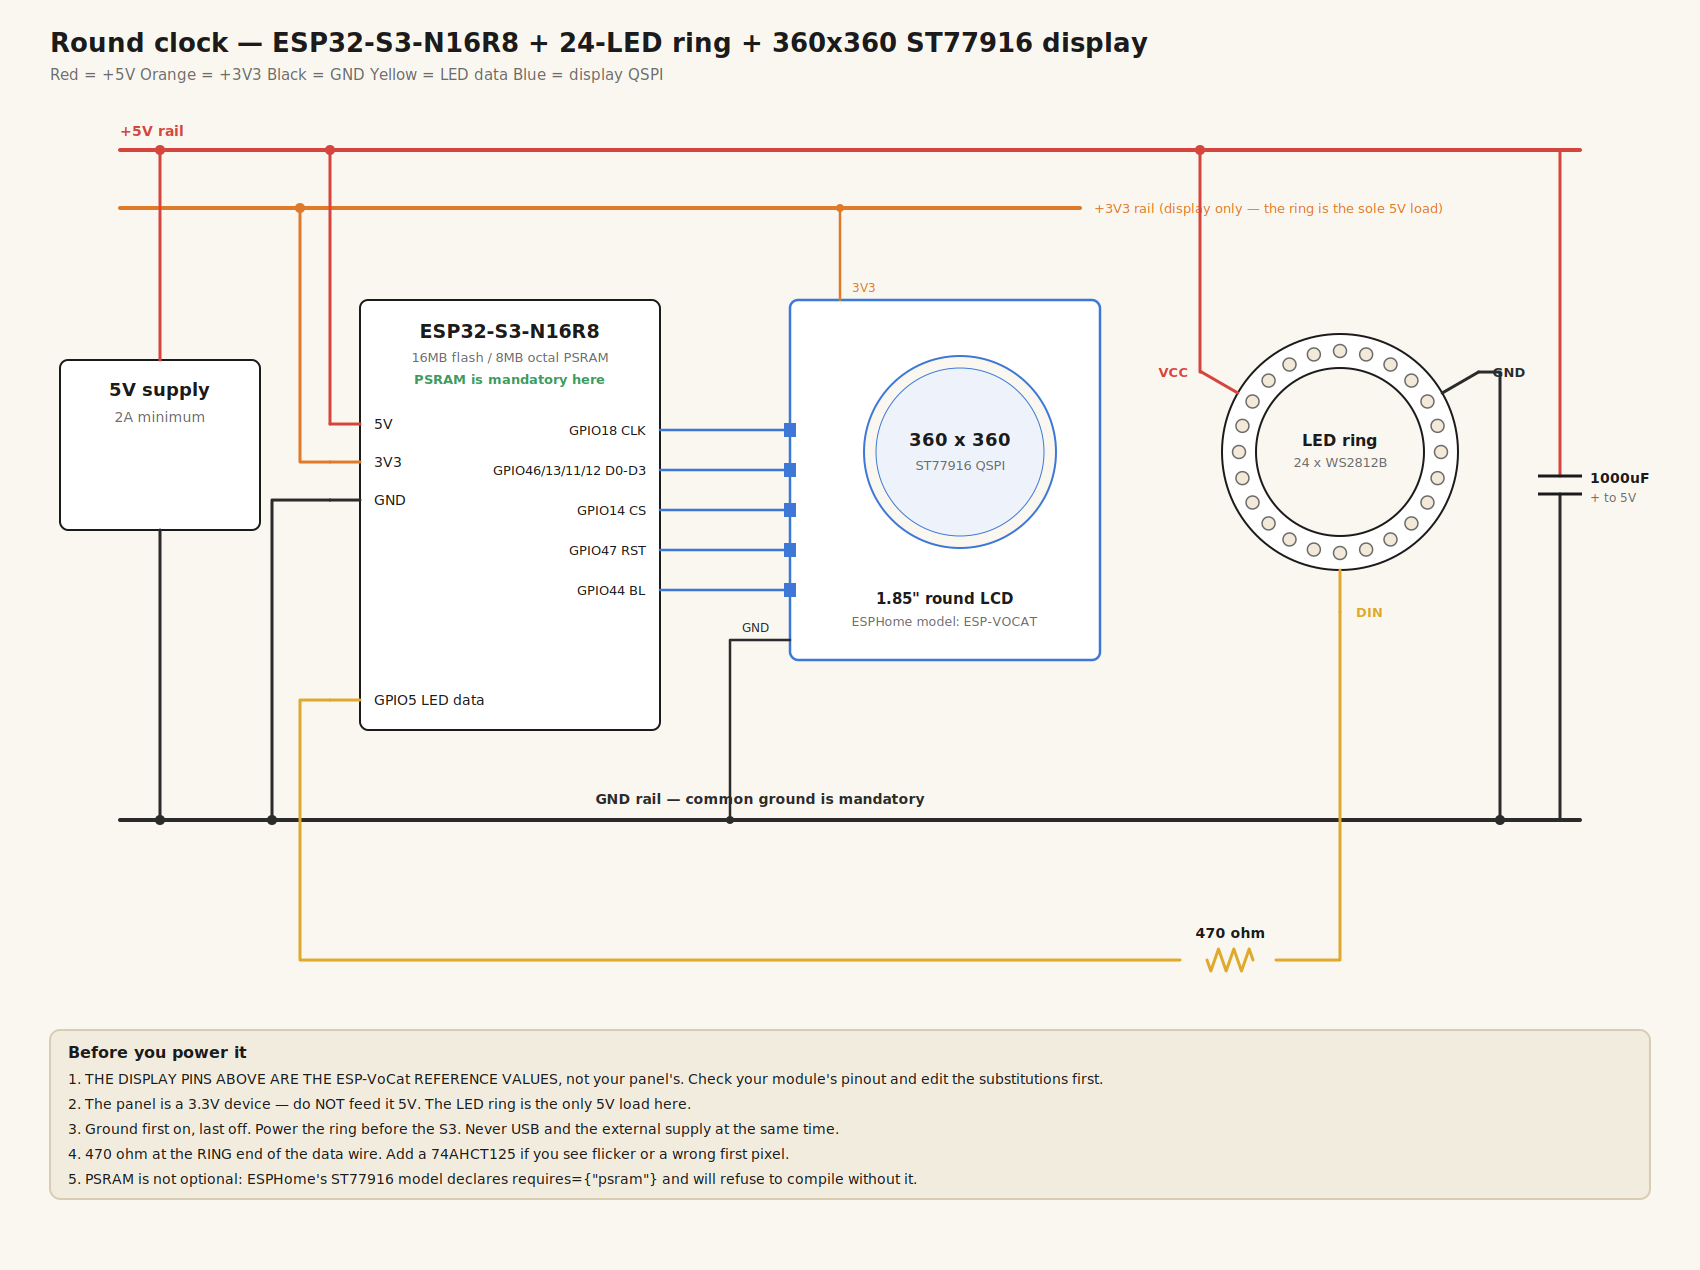
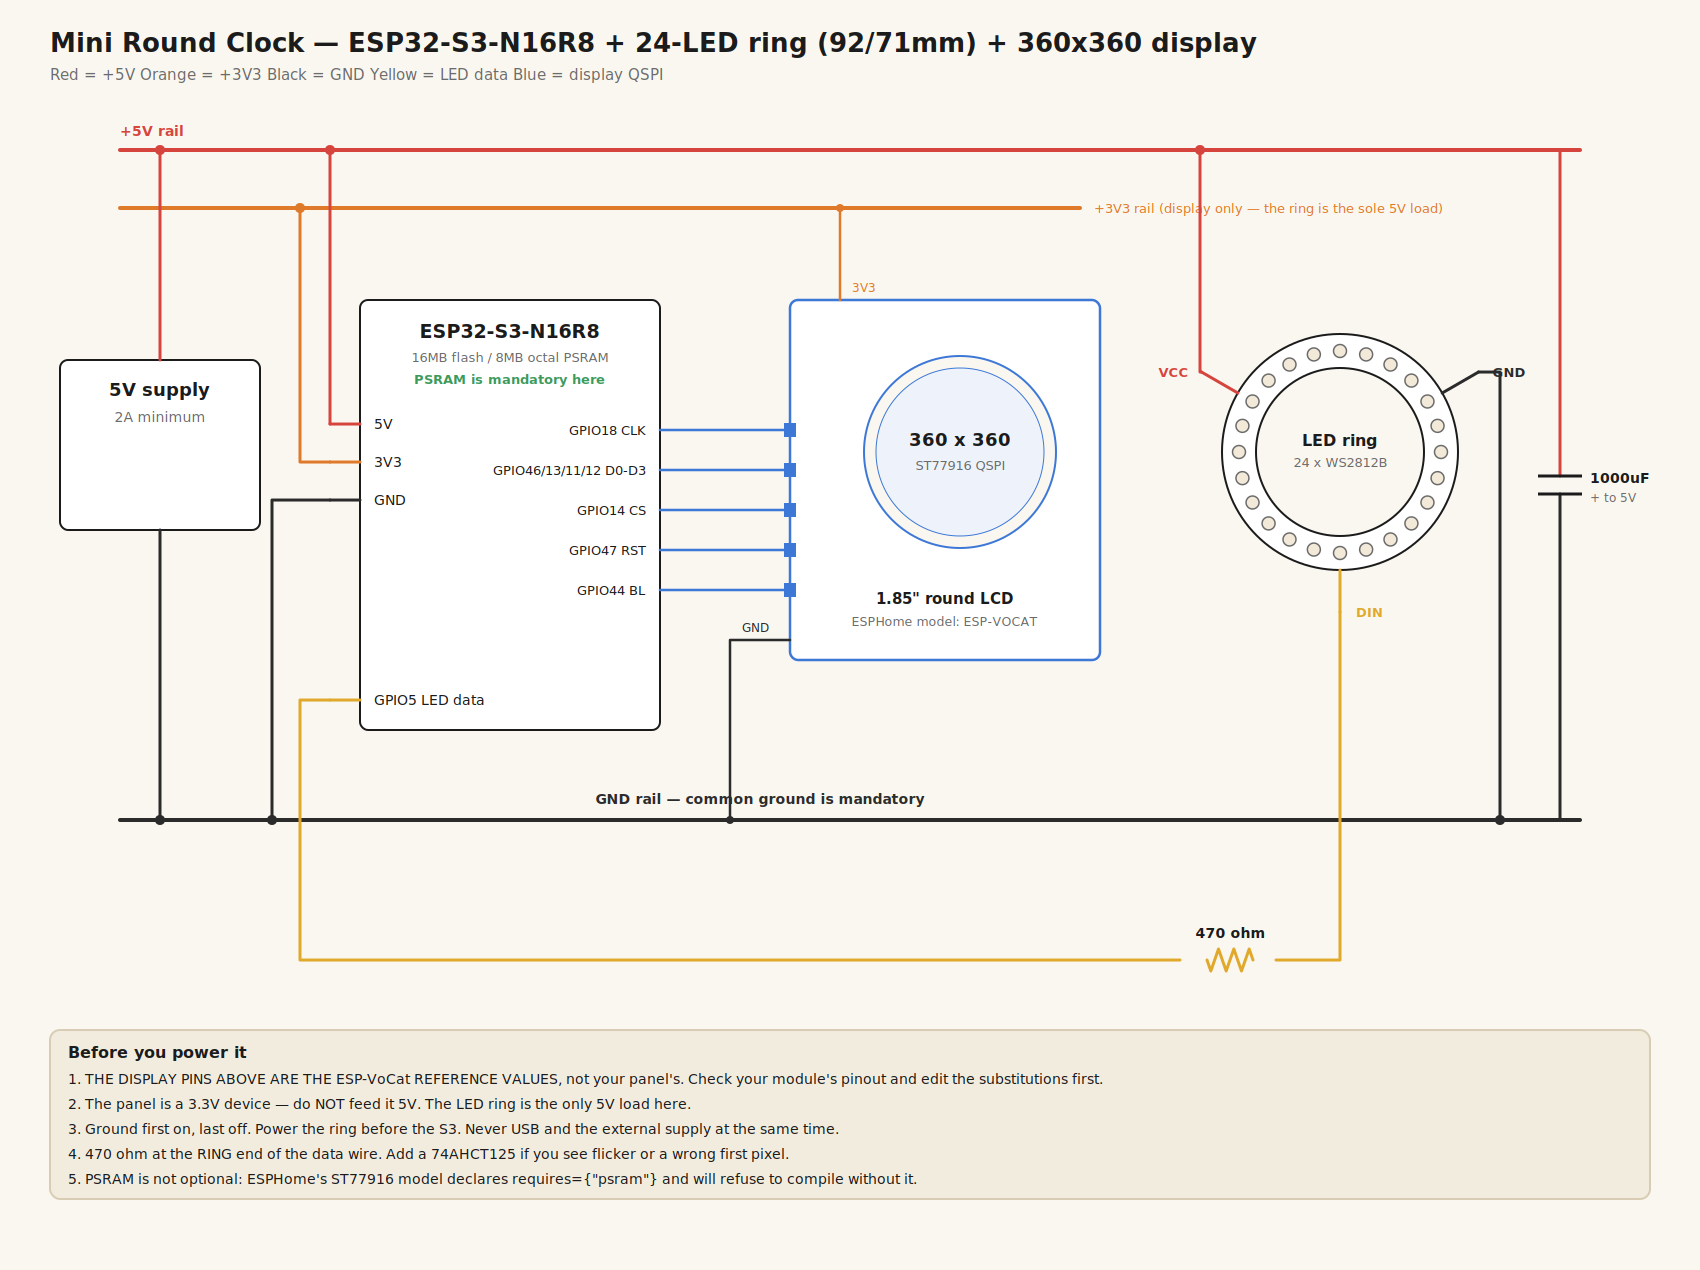
Rename device to mini-round-clock
Matches the name Sam created in ESPHome Device Builder. The device name
sets the hostname, the OTA target and the prefix on every entity the
device creates in Home Assistant, so it has to match exactly.

No change on the Home Assistant package side: everything the firmware
subscribes to is namespaced wall_clock_* and lives in HA rather than on
the device, so the rename does not reach it.

Claude-Session: https://claude.ai/code/session_01MbshMByjeupbysPnjN7CAS

Changed region(s): [[0.0312, 0.0, 0.7482, 0.0614]]

diff --git a/wall-clock/docs/wiring/wiring.py b/wall-clock/docs/wiring/wiring.py
@@ -180,7 +180,7 @@ def diagram_d1mini(path):
 
 def diagram_s3(path):
     s = SVG(1700, 1270, "S3")
-    s.text(50, 52, "Round clock — ESP32-S3-N16R8 + 24-LED ring + 360x360 ST77916 display",
+    s.text(50, 52, "Mini Round Clock — ESP32-S3-N16R8 + 24-LED ring (92/71mm) + 360x360 display",
            26, INK, "start", "bold")
     s.text(50, 80, "Red = +5V   Orange = +3V3   Black = GND   Yellow = LED data   Blue = display QSPI",
            15, MUTED)

diff --git a/wall-clock/BUILD-LOG.md b/wall-clock/BUILD-LOG.md
@@ -558,3 +558,40 @@ be filled in by hand, and the two post-restart checks — the
 and the `wall_clock_*` entity count.
 
 The `--check-only` flag validates the current config and changes nothing.
+
+---
+
+## 2026-08-23 — Device named `mini-round-clock`
+
+Sam named the device in ESPHome Device Builder. Renamed
+`round-clock-s3.yaml` → **`mini-round-clock.yaml`** to match, since Device
+Builder names the config file after the device, and updated the substitutions.
+
+The device name is not cosmetic — it sets three things:
+
+| | |
+|---|---|
+| Hostname | `mini-round-clock.local` |
+| OTA target | the same, so it must match or OTA finds nothing |
+| Entity prefix | every entity this device creates in HA |
+
+Resulting Home Assistant entities:
+
+- `number.mini_round_clock_brightness`
+- `number.mini_round_clock_night_brightness`
+- `select.mini_round_clock_mode`
+- `switch.mini_round_clock_display`
+- `light.mini_round_clock_backlight`
+
+The LED ring itself stays `internal: true` and is deliberately **not** exposed —
+exposing it alongside the brightness number invites a state fight between HA's
+slider and the cap, with no way to tell which one won.
+
+16 characters, against ESPHome's 24-character limit for `name:`. Fine.
+
+**No change needed on the HA package side.** Everything the firmware subscribes
+to is namespaced `wall_clock_*` and lives in Home Assistant, not on the device,
+so renaming the device does not touch it. That indirection was the point.
+
+Both lambdas re-checked after the rename: clean compile, all assertions pass,
+all four display branches exercised.
